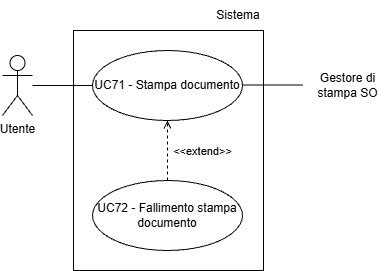
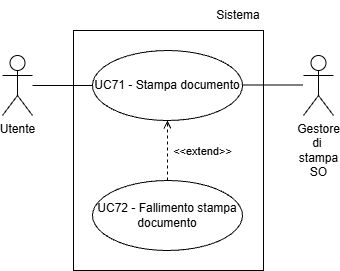
Correzioni varie Analisi dei Requisiti

diff --git a/1 - RTB/Analisi_dei_Requisiti_v0_15.tex b/1 - RTB/Analisi_dei_Requisiti_v0_15.tex
@@ -7,7 +7,7 @@
 \setAuthors{Filippo Compagno \\ & Sara Gioia Fichera \\ & Andrea Masiero \\ & Mattia Oliva Medin \\ & Francesco Balestro \\ & Nenad Radulovic \\ & Bianca Zaghetto}
 \setVerificators{Andrea Masiero \\ & Francesco Balestro \\ & Bianca Zaghetto \\ & Sara Gioia Fichera \\ & Nenad Radulovic \\ & Filippo Compagno \\ & Mattia Oliva Medin}
 \setApprovation{}
-\setVersion{0.14}
+\setVersion{0.15}
 \setType{Esterno}
 \setDestination{Tullio Vardanega \\ & Riccardo Cardin \\ & Sanmarco Informatica \\[-0.1em] & Team Three Technologies}
 
@@ -105,6 +105,7 @@
 \newcommand{\printdoc}{71}
 \newcommand{\printdocfail}{72}
 \newcommand{\verdigsign}{73}
+\newcommand{\viewverdigsign}{74}
 
 \begin{document}
     \include{docTitlepage}
@@ -115,6 +116,8 @@
                 \begin{tabularx}{\textwidth}{|l|l|l|l|L|L|}
                 \hline
                 \textbf{Vers.} & \textbf{Data} & \textbf{Autore} & \textbf{Ruolo} & \textbf{Verifica} & \textbf{Oggetto} \\
+                \hline
+                \textbf{0.15} & 07/02/26 & Francesco Balestro & Analista & Filippo Compagno & Correzioni varie \\
                 \hline
                 \textbf{0.14} & 07/01/26 & Francesco Balestro & Analista & Mattia Oliva Medin & Inserimento Requisiti di Qualità e di Vincolo e correzioni varie \\
                 \hline
@@ -275,6 +278,7 @@
                 }
                 \inc{\ucref{uc:\loaddip.1}}
                 \ext{\ucref{uc:\errloaddip}}
+                \gen{\ucref{uc:\remloaddip}}
             \end{usecase}
             \begin{figure}[H]
                     \centering
@@ -321,9 +325,7 @@
                     \item[4a.] L'utente cancella l'operazione
                     \item[5a.] L'utente inserisce un pacchetto con struttura non conforme (\textbf{UC\errloaddip})
                 }
-                \inc{\ucref{uc:\loaddip.1}, \ucref{uc:\removedip}}
-                \ext{\ucref{uc:\errloaddip}}
-                \gen{\ucref{uc:\loaddip}}
+                \inc{\ucref{uc:\removedip}}
             \end{usecase}
 
             % Errore struttura DIP
@@ -446,6 +448,7 @@
                     \end{itemize}
                 }
                 \inc{\ucref{uc:\viewdetdoc}}
+                \gen{\ucref{uc:\viewdip.2.2}}
             \end{usecase}
             \begin{usecase}
                 \code{\viewdip.2.2}
@@ -469,7 +472,6 @@
                     \end{itemize}
                 }
                 \inc{\ucref{uc:\viewdip.2.2.1}}
-                \gen{\ucref{uc:\viewdip.2.1}}
             \end{usecase}
             \begin{usecase}
                 \code{\viewdip.2.2.1}
@@ -564,6 +566,7 @@
                     \item L'utente seleziona l'algoritmo applicato (\textbf{UC\mdparamImpCrit.2})
                 }
                 \inc{\ucref{uc:\mdparamImpCrit.1}, \ucref{uc:\mdparamImpCrit.2}}
+                \gen{\ucref{uc:\mdparamImpCritAll}}
             \end{usecase}
             \begin{figure}[H]
                     \centering
@@ -615,6 +618,7 @@
                     \item L'utente seleziona il criterio "Identificativo documento"
                     \item L'utente inserisce il valore
                 }
+                \gen{\ucref{uc:\mdparamIdDocAll}}
             \end{usecase}
             \begin{figure}[H]
                     \centering
@@ -1463,8 +1467,6 @@
                     \item L'utente inserisce il digest del documento (\textbf{UC\mdparamImpCrit.1})
                     \item L'utente seleziona l'algoritmo applicato (\textbf{UC\mdparamImpCrit.2})
                 }
-                \inc{\ucref{uc:\mdparamImpCrit.1}, \ucref{uc:\mdparamImpCrit.2}}
-                \gen{\ucref{uc:\mdparamImpCrit}}
             \end{usecase}
 
             \begin{usecase}
@@ -1483,7 +1485,6 @@
                     \item L'utente seleziona il criterio "Identificativo allegato"
                     \item L'utente inserisce il valore
                 }
-                \gen{\ucref{uc:\mdparamIdDoc}}
             \end{usecase}
 
             \begin{usecase}
@@ -2376,14 +2377,13 @@
                     \item L'utente ha selezionato un documento dalla lista
                 }
                 \post{
-                    \item L'utente vede il risultato della verifica della firma digitale 
+                    \item L'utente ha verificato la validità della firma digitale
                 }
                 \main{
                     \item L'utente seleziona la funzionalità di verifica delle firma digitale del documento selezionato
                     \item L'utente avvia la verifica
-                    \item L'utente vede il risultato della verifica della firma digitale (\textbf{UC\verdigsign.1})
+                    \item L'utente ha verificato la validità della firma digitale
                 }
-                \inc{\ucref{uc:\verdigsign.1}}
             \end{usecase}
             \begin{figure}[H]
                     \centering
@@ -2393,11 +2393,11 @@
 
             % Visualizzazione risultato verifica firma digitale
             \begin{usecase}
-                \code{\verdigsign.1}
+                \code{\viewverdigsign}
                 \titleUC{Visualizzazione risultato verifica firma digitale documento}
                 \actor{Utente}
                 \pre{
-                    \item L'utente sta verificando la firma digitale di un documento
+                    \item L'utente ha verificato la validità della firma digitale
                 }
                 \post{
                     \item L'utente vede il risultato della verifica della firma digitale 
@@ -2406,6 +2406,11 @@
                     \item L'utente visualizza il risultato delle verifica della firma digitale (firma valida/non valida)
                 }
             \end{usecase}
+            \begin{figure}[H]
+                    \centering
+                    \includegraphics[width=0.5\textwidth]{Use_Case_Diagrams/UC74.png}
+                    \caption{UC74 - Visualizzazione risultato verifica firma digitale documento}
+            \end{figure}
         }
     }
     \newpage
@@ -2474,7 +2479,7 @@
                 \hline
                 \textbf{R8-F-Ob} & L'utente deve poter visualizzare le informazioni di conservazione di un DIP & \ucref{uc:\viewconsinfo} \\
                 \hline
-                \textbf{R9-F-Ob} & Devono essere fatti dei controlli sulla validità e lo stato del processo di conservazione & \ucref{uc:\viewconsinfo} \\
+                \textbf{R9-F-Ob} & Il Sistema deve eseguire i controlli sulla validità e lo stato del processo di conservazione & \ucref{uc:\viewconsinfo} \\
                 \hline
                 \textbf{R10-F-De} & L'utente deve poter impostare il criterio "Impronta crittografica" per cercare un documento & 
                 \ucref{uc:\mdparamImpCrit} \newline
@@ -2685,8 +2690,10 @@
                 \ucref{uc:\printdocfail} \\
                 \hline
                 \textbf{76-F-Op} & L'utente deve poter verificare la firma digitale di un documento selezionato & 
-                \ucref{uc:\verdigsign} \newline
-                \ucref{uc:\verdigsign.1} \\
+                \ucref{uc:\verdigsign} \\
+                \hline
+                \textbf{77-F-Op} & L'utente deve poter visualizzare il risultato della verifica della firma digitale di un documento & 
+                \ucref{uc:\viewverdigsign} \\
                 \hline
             \end{longtable}
         }
